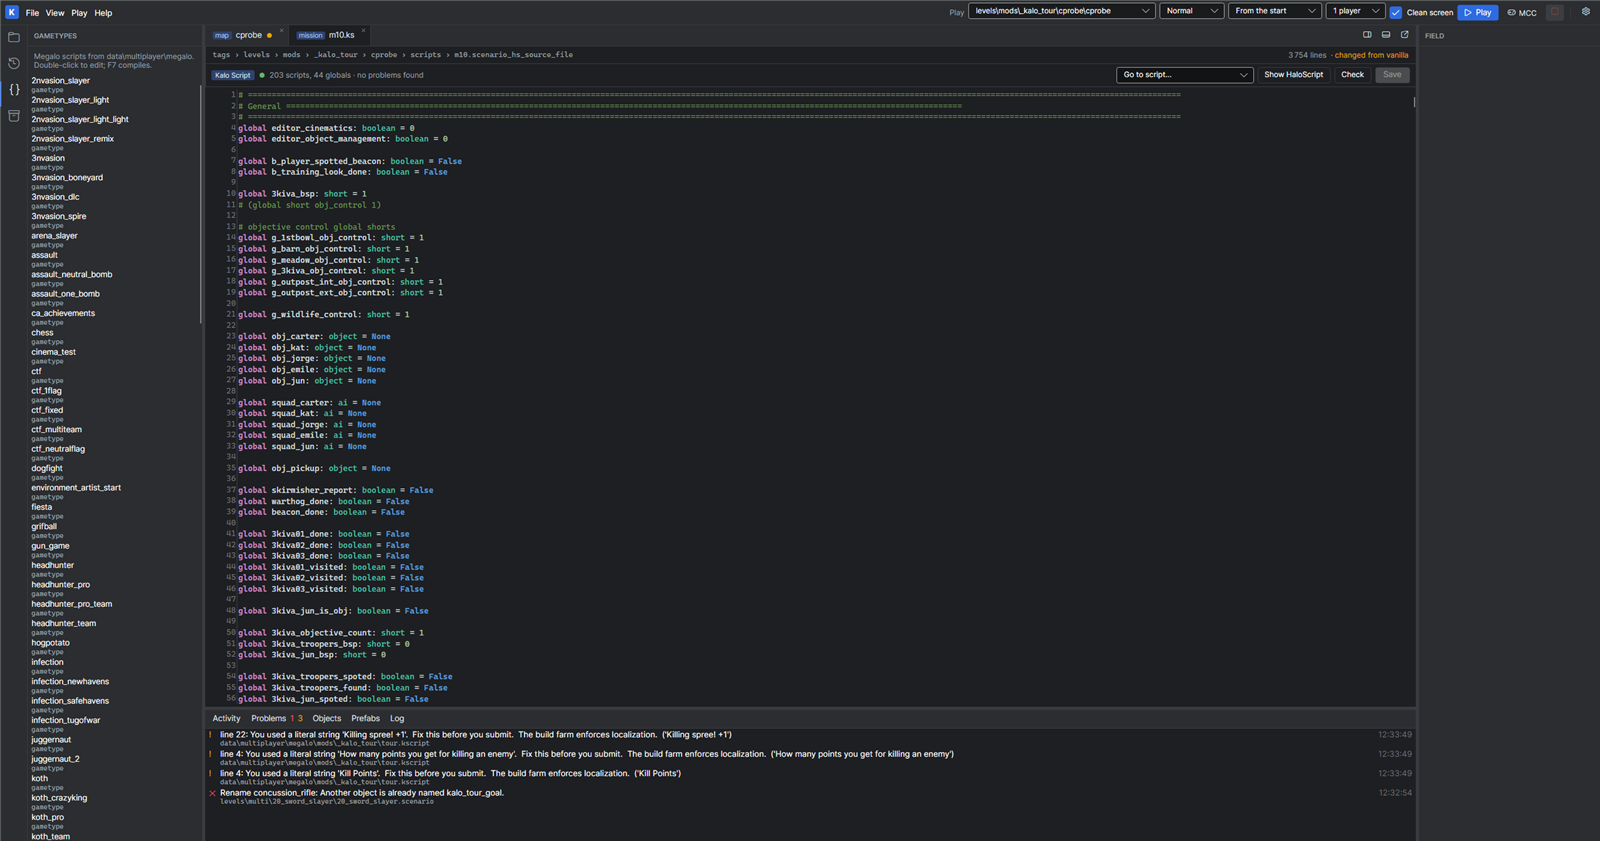
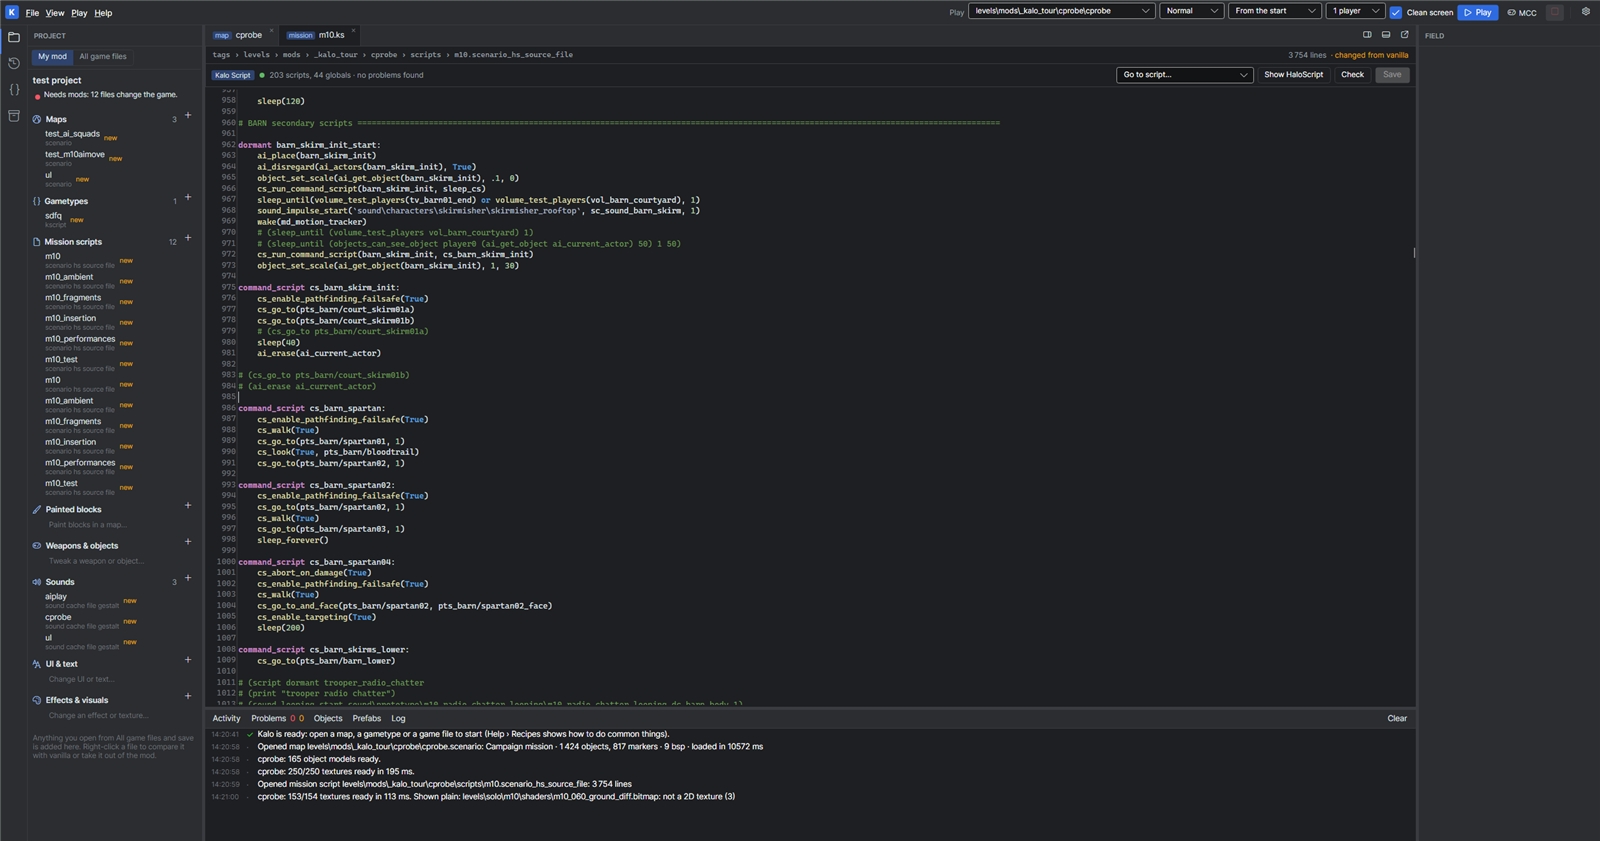
README: show a readable campaign script (m10's barn skirmishers)

Changed region(s): [[0.0, 0.0309, 0.625, 1.0], [0.5, 0.8966, 0.5938, 0.9275], [0.1562, 0.0309, 0.2188, 0.0618]]

diff --git a/src/Kalo.App/Tour.cs b/src/Kalo.App/Tour.cs
@@ -3840,6 +3840,12 @@ public sealed class Tour
         Check(items.Any(i => i.Text == "ai_place"), $"autocomplete ai_pla: {string.Join(", ", items.Take(5).Select(i => i.Text))}");
         var (_, names) = doc.Complete("    ai_place(barn_sk");
         Check(names.Any(i => i.Text == "barn_skirm_init" && i.Kind == "squad"), $"autocomplete barn_sk: {string.Join(", ", names.Take(5).Select(i => i.Text + " (" + i.Kind + ")"))}");
+        // A readable part of the mission for the README: the barn skirmisher, near the top of the editor.
+        _vm.ActiveDocument = doc;
+        int barn = doc.FindDeclarationLine("barn_skirm_init_start");
+        doc.RevealLine(barn + 23);   // centred by the editor, so the script starts near the top (a blank line: nothing selected)
+        await Pause(1200);
+        Shot("mission-readable");
         // A typo: a squad that doesn't exist, a function with too few values.
         string text = doc.Text;
         doc.Text = text.Replace("ai_place(barn_skirm_init)", "ai_place(barn_skirm_typo)").Replace("wake(md_motion_tracker)", "wake()");

diff --git a/README.md b/README.md
@@ -38,7 +38,8 @@ to use [Claude](https://claude.ai) to build a tool for myself, one window that m
 
 ![The weapon editor](docs/images/weapon-editor.png)
 
-**Campaign scripting:** a mission's script in Kalo Script, readable and checked for errors before you play.
+**Campaign scripting:** part of Reach's first mission in Kalo Script. A squad of Skirmishers is placed, waits until
+the player reaches the barn, then a command script sends them across the courtyard. Checked for errors before you play.
 
 ![A campaign mission script](docs/images/campaign-script.png)
 
